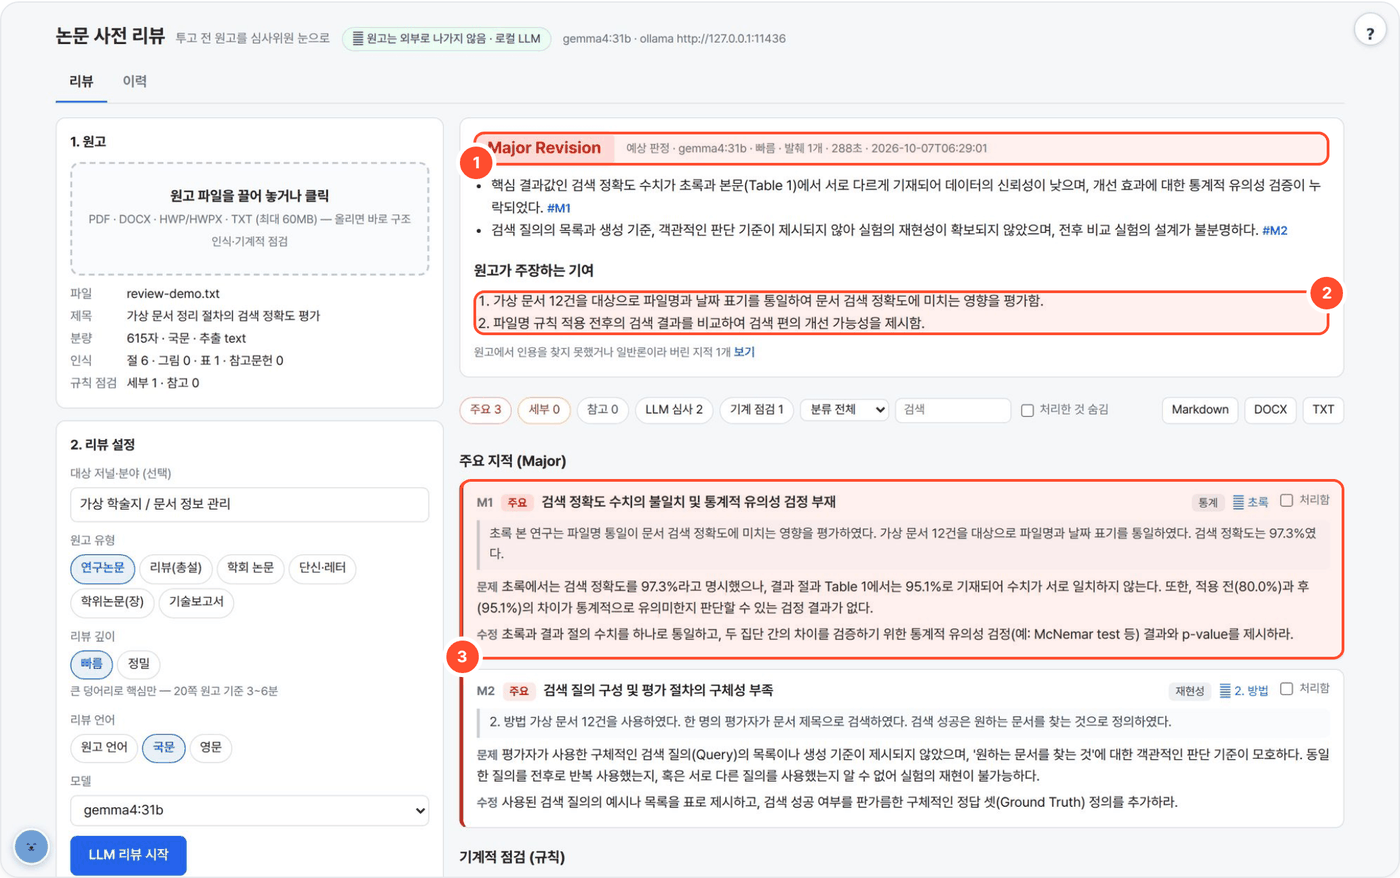
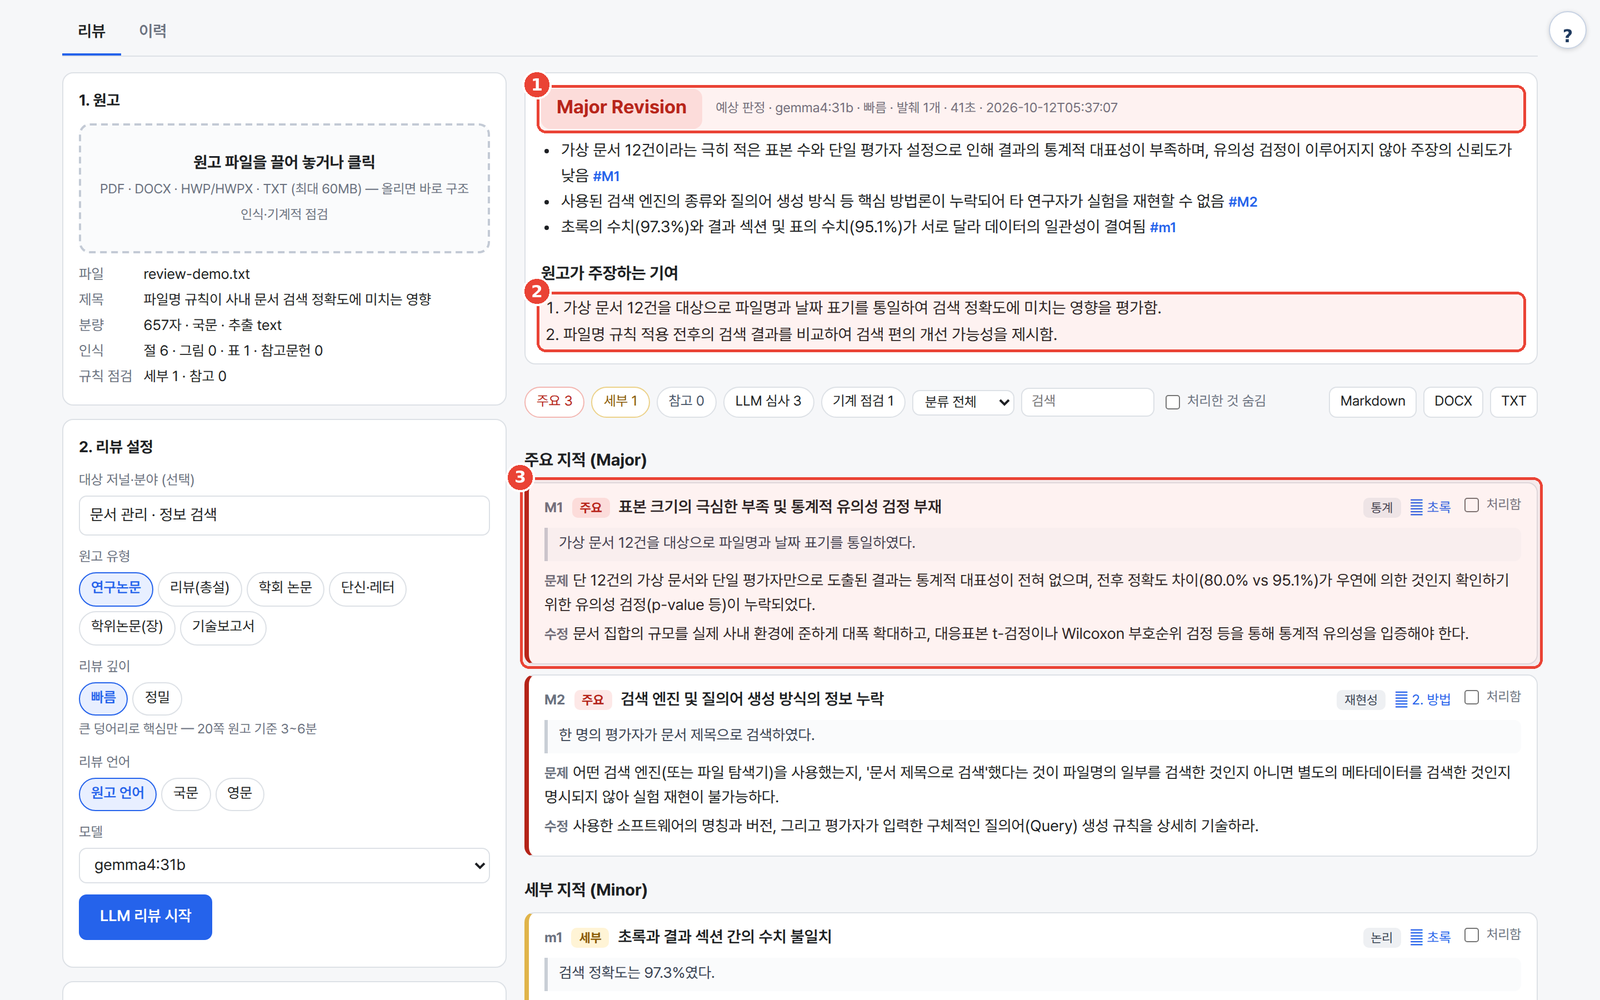
README: 사용 화면·예시를 새 실행으로 다시 찍음 (예시 작성자 김동주)

diff --git a/README.md b/README.md
@@ -25,11 +25,13 @@
 
 ## 예시
 
-합성 원고 `review-demo.txt`(가상 문서 정리 연구)로 실제 돌린 결과입니다. 설정: 빠름 · 국문 · 대상 "가상 학술지 / 문서 정보 관리" · `gemma4:31b`.
+합성 원고 `review-demo.txt`(저자 김동주, 파일명 규칙과 문서 검색 정확도)로 실제 돌린 결과입니다. 설정: 연구논문 · 빠름 · 원고 언어 · 대상 "문서 관리 · 정보 검색" · `gemma4:31b` · 41초.
 
 입력(원고 발췌):
 
 ```text
+파일명 규칙이 사내 문서 검색 정확도에 미치는 영향
+김동주 · 인공지능응용연구실
 검색 정확도는 97.3%였다.            ← 초록
 규칙 적용 후 검색 정확도는 95.1%였다. ← 결과
 표준편차와 신뢰구간은 계산하지 않았다.
@@ -39,8 +41,9 @@
 
 ```text
 예상 판정: Major Revision
-M1 (주요·통계) 검색 정확도 수치의 불일치 및 통계적 유의성 검정 부재  — 초록 97.3% ↔ 본문 95.1%
-M2 (주요·재현성) 검색 질의 구성 및 평가 절차의 구체성 부족
+M1 (주요·통계)   표본 크기의 극심한 부족 및 통계적 유의성 검정 부재
+M2 (주요·재현성) 검색 엔진 및 질의어 생성 방식의 정보 누락
+m1 (세부·논리)   초록과 결과 섹션 간의 수치 불일치 — 초록 97.3% ↔ 본문 95.1%
 ```
 
 > 예상 판정은 투고 결과를 예측하는 확정값이 아닙니다. 판정보다 지적 하나하나의 근거(인용·위치)를 보고 판단하세요.
